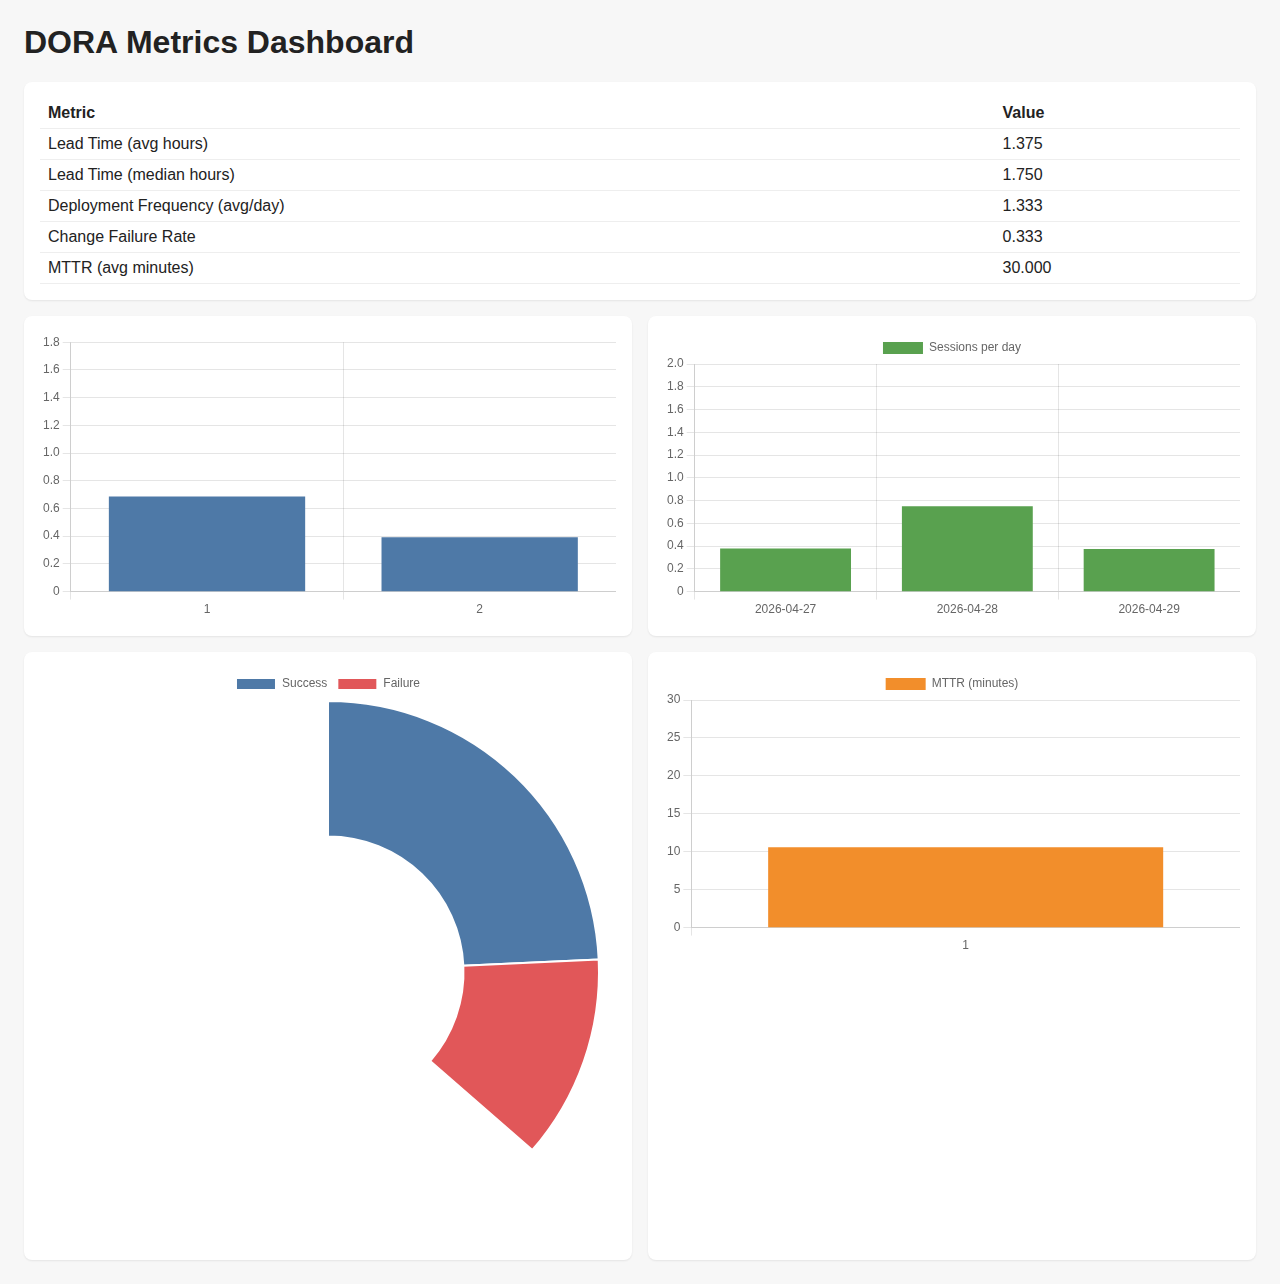
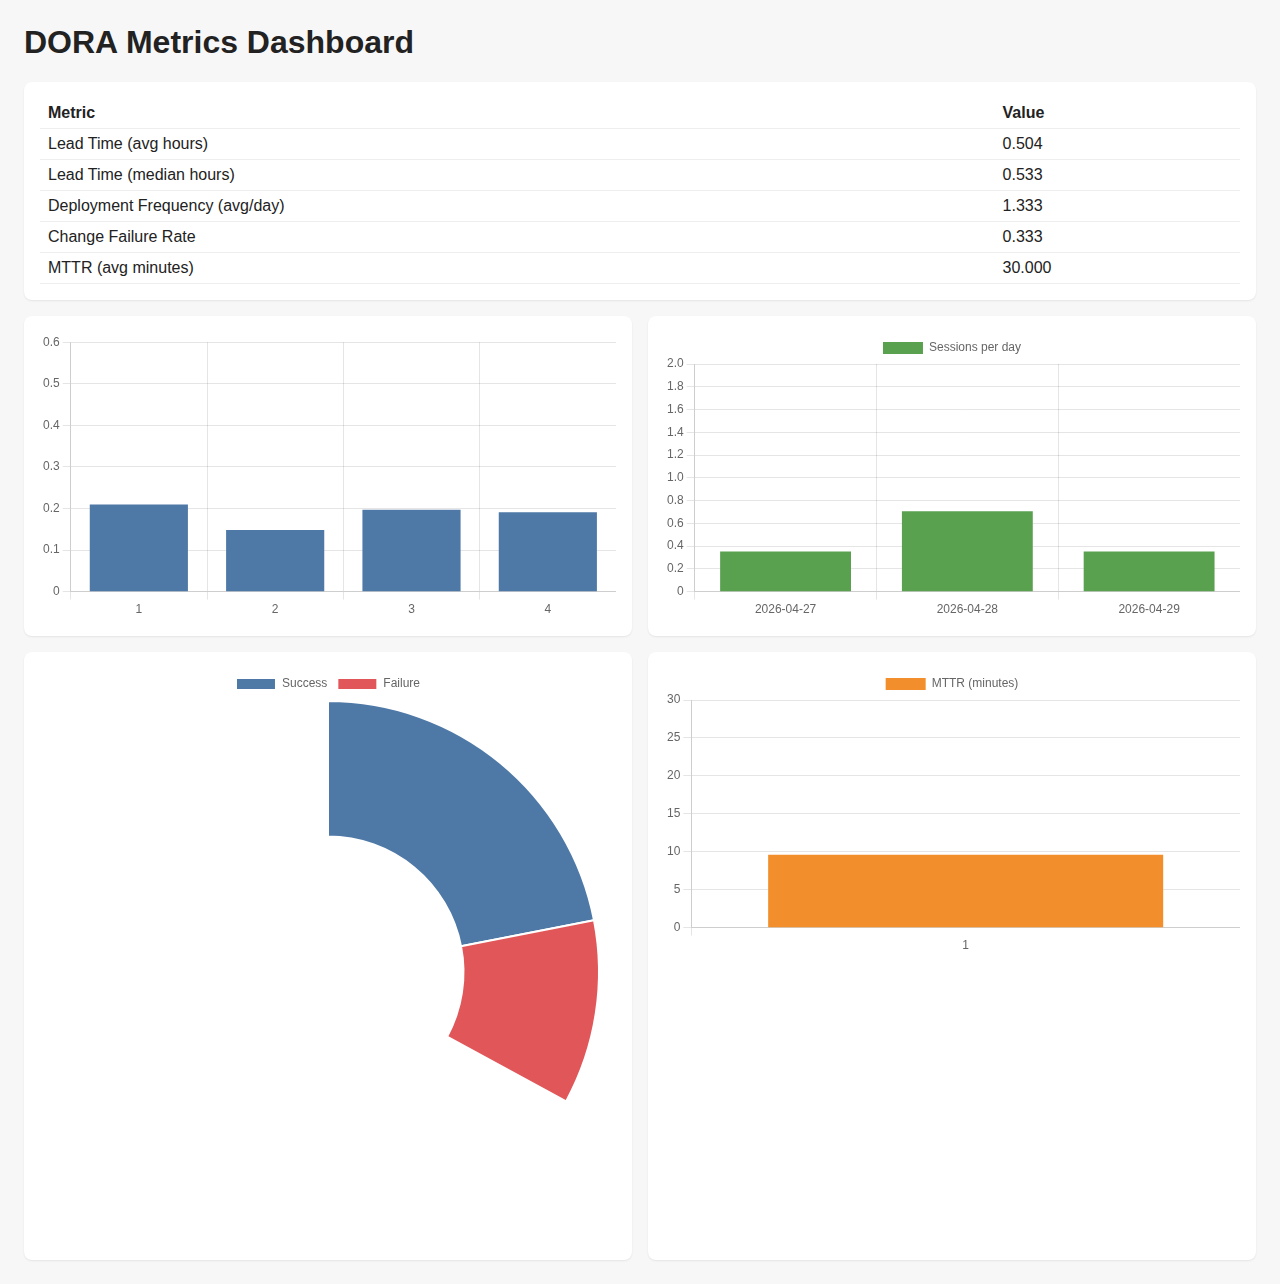
Update DORA metrics dashboard

diff --git a/metrics/out/dashboard.html b/metrics/out/dashboard.html
@@ -19,8 +19,8 @@
     <div class="card">
         <table>
             <tr><th>Metric</th><th>Value</th></tr>
-            <tr><td>Lead Time (avg hours)</td><td>1.375</td></tr>
-            <tr><td>Lead Time (median hours)</td><td>1.750</td></tr>
+            <tr><td>Lead Time (avg hours)</td><td>0.504</td></tr>
+            <tr><td>Lead Time (median hours)</td><td>0.533</td></tr>
             <tr><td>Deployment Frequency (avg/day)</td><td>1.333</td></tr>
             <tr><td>Change Failure Rate</td><td>0.333</td></tr>
             <tr><td>MTTR (avg minutes)</td><td>30.000</td></tr>
@@ -33,7 +33,7 @@
         <div class="card"><canvas id="mttr"></canvas></div>
     </div>
     <script>
-        const leadTimes = [1.75, 1.0];
+        const leadTimes = [0.5666666666666667, 0.4, 0.5333333333333333, 0.5166666666666667];
         const deployDays = ["2026-04-27", "2026-04-28", "2026-04-29"];
         const deployCounts = [1, 2, 1];
         const mttrValues = [30.0];

diff --git a/README.md b/README.md
@@ -28,3 +28,4 @@ GitHub Actions로 생성:
 HTML을 열면 Chart.js로 시각화된 대시보드를 확인할 수 있습니다.
 
 <!-- DORA_SCREENSHOT -->
+![DORA Metrics Dashboard](metrics/out/dashboard.png)
